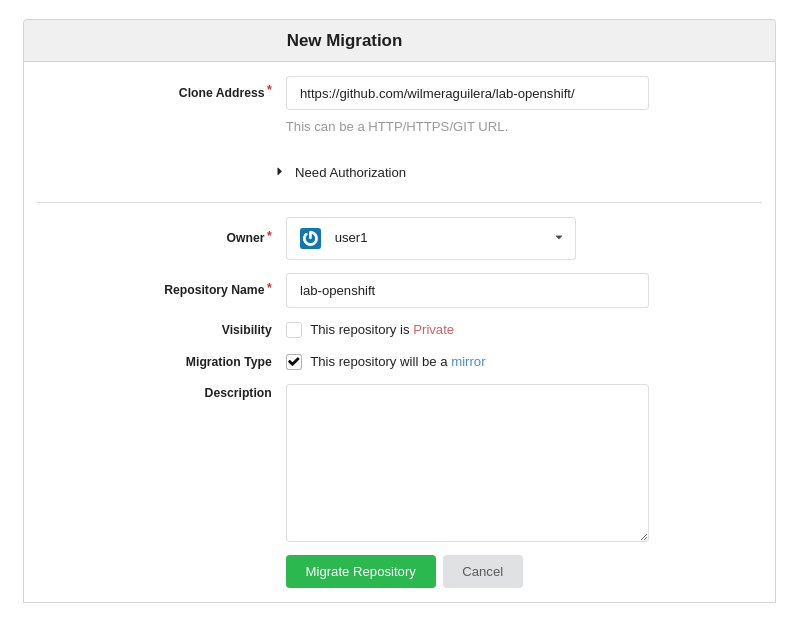
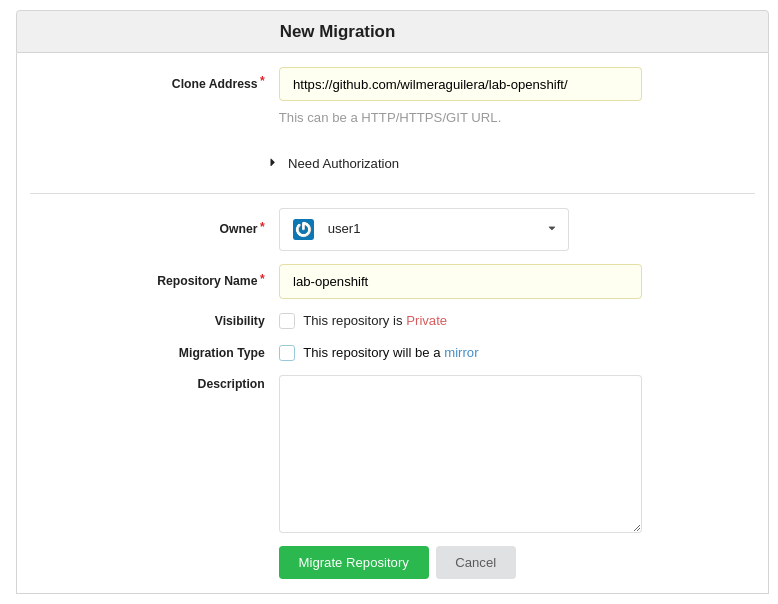
Ducumentación Workshop, estrategias de despliegue

diff --git a/labs/05.estrategias-despliegue.md b/labs/05.estrategias-despliegue.md
@@ -66,6 +66,7 @@ Diligenciar los siguientes datos:
 
 __Clone Address__: https://github.com/wilmeraguilera/lab-openshift/
 __Repository Name__: lab-openshift
+__Migration Type__: Desmarcar el check "This repository will be a mirror"
 
 *Los demás valores dejarlos por defecto*
 
@@ -112,23 +113,85 @@ oc expose svc blue --name=lab-openshift
 
 Ejecutar el siguiente comando curl o alternativamente navegar en la ruta desde un navegador.
 
-*Reemplazar el valor [ROUTE APP] por la ruta en cada uo de sus ambientes*
+*Reemplazar el valor [ROUTE APP] por la ruta en su ambiente, si desea obtenet la ruta use el comando ```oc get route ```*
 ```shell script
-curl -X GET "http://lab-openshift-apps-user1.[ROUTE APP]/healthcheck" -H "accept: */*"
+$curl -X GET "http://[ROUTE APP]/healthcheck" -H "accept: */*" 
 ```
 
+La salida del comando es la siguiente (*La ip puede variar*), Note que la version es 1.0
 
+```shell script 
+{"appTitle":"Api Rest de Ejemplo","version":"1.0","ip":"10.128.0.132"}
+```
+
+Observa en la respuesta el campo versión con el valor 1.0
 
 7. Realizar cambios en la aplicación en el Git.
+* Ingresar el gogs y seleccionar el repositorio lab-openshift
+* Ir el archivo backend-users/src/main/java/com/redhat/example/resource/UserResource.java
+* Dar clic en Edit File.
+![gogs-edit-file.png](img/gogs-edit-file.png)
+* En el método  healthcheck() cambiar la linea  *responseHealthCheck.setVersion("1.0");* por responseHealthCheck.setVersion("2.0");
+* Dar clic en __Commit Changues__
 
 8. Desplegar la nueva versión de la aplicación en el ambiente GREEN
+* En __Topology__ seleccionar la aplicación Green y seleccionar el tab __Resources__
+* Dar clic en __Start Build__, este comando compilará la aplicación con la última version de las fuentes y generará una nueva imagen.
+* Debemos esperar a que termine el Build y el Deployment sobre la aplicación Green
 
 9. Verificar que aun esta desplegada la version anterior.
+* Ejecutar de nuevo el comando curl 
+
+```shell script
+$curl -X GET "http://[ROUTE APP]/healthcheck" -H "accept: */*"
+```
+La salida sigue siendo igual ya que la ruta sigue apuntando a la aplicación BLUE
+```shell script
+{"appTitle":"Api Rest de Ejemplo","version":"1.0","ip":"10.128.0.138"}
+```
 
 10. Editar la ruta para apuntar al __service__ de la aplicación GREEN
+* Ir a __Topology__ y seleccionar la aplicación BLUE
+* En la sección __Routes__ y seleccionar la ruta __lab-openshift__
+* Ir al tab __YAML__
+* Buscar la sección del archivo que define el servicio al cual apunta la ruta y cambiar blue por green.
+
+Antes:
+```shell script
+...
+to:
+    kind: Service
+    name: blue
+...
+```
+
+Después:
+```shell script
+...
+to:
+    kind: Service
+    name: green
+...
+```
+
+Dar clic en __Save__
+ 
 
 11. Verificar la nueva version de la aplicación. 
 
+Ejecutar el comando curl o acceder a la ruta desde un navegador
+```shell script
+$curl -X GET "http://[ROUTE APP]/healthcheck" -H "accept: */*"
+```
+La salida será similar a la siguiente donde veremos la version 2.0 o una IP diferente con respecto a la aplicación BLUE.
+
+```shell script
+{"appTitle":"Api Rest de Ejemplo","version":"2.0","ip":"10.128.0.141"}
+```
+
+Al ir a __Topology__ veremos que se actualiza el gráfico y ahora la ruta está en la aplicación GREEN.
+
+![blue-green-apps-topology-green](img/blue-green-apps-topology-green.png)
 
 
 
